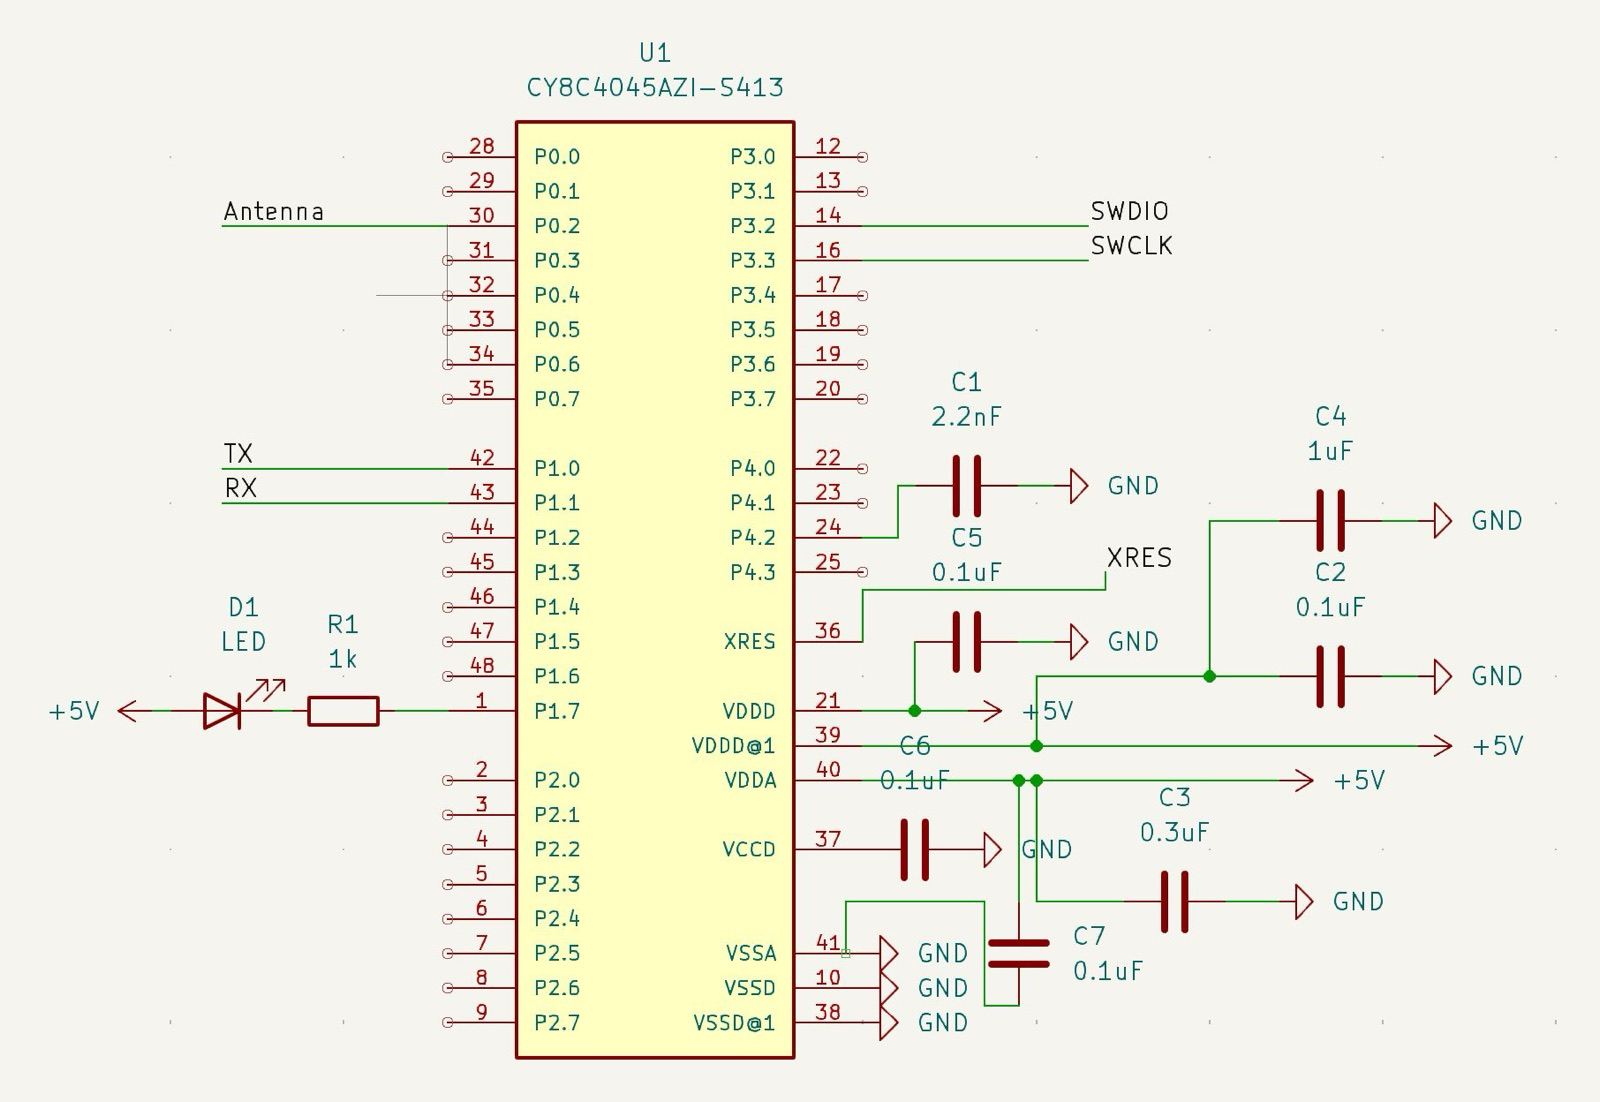
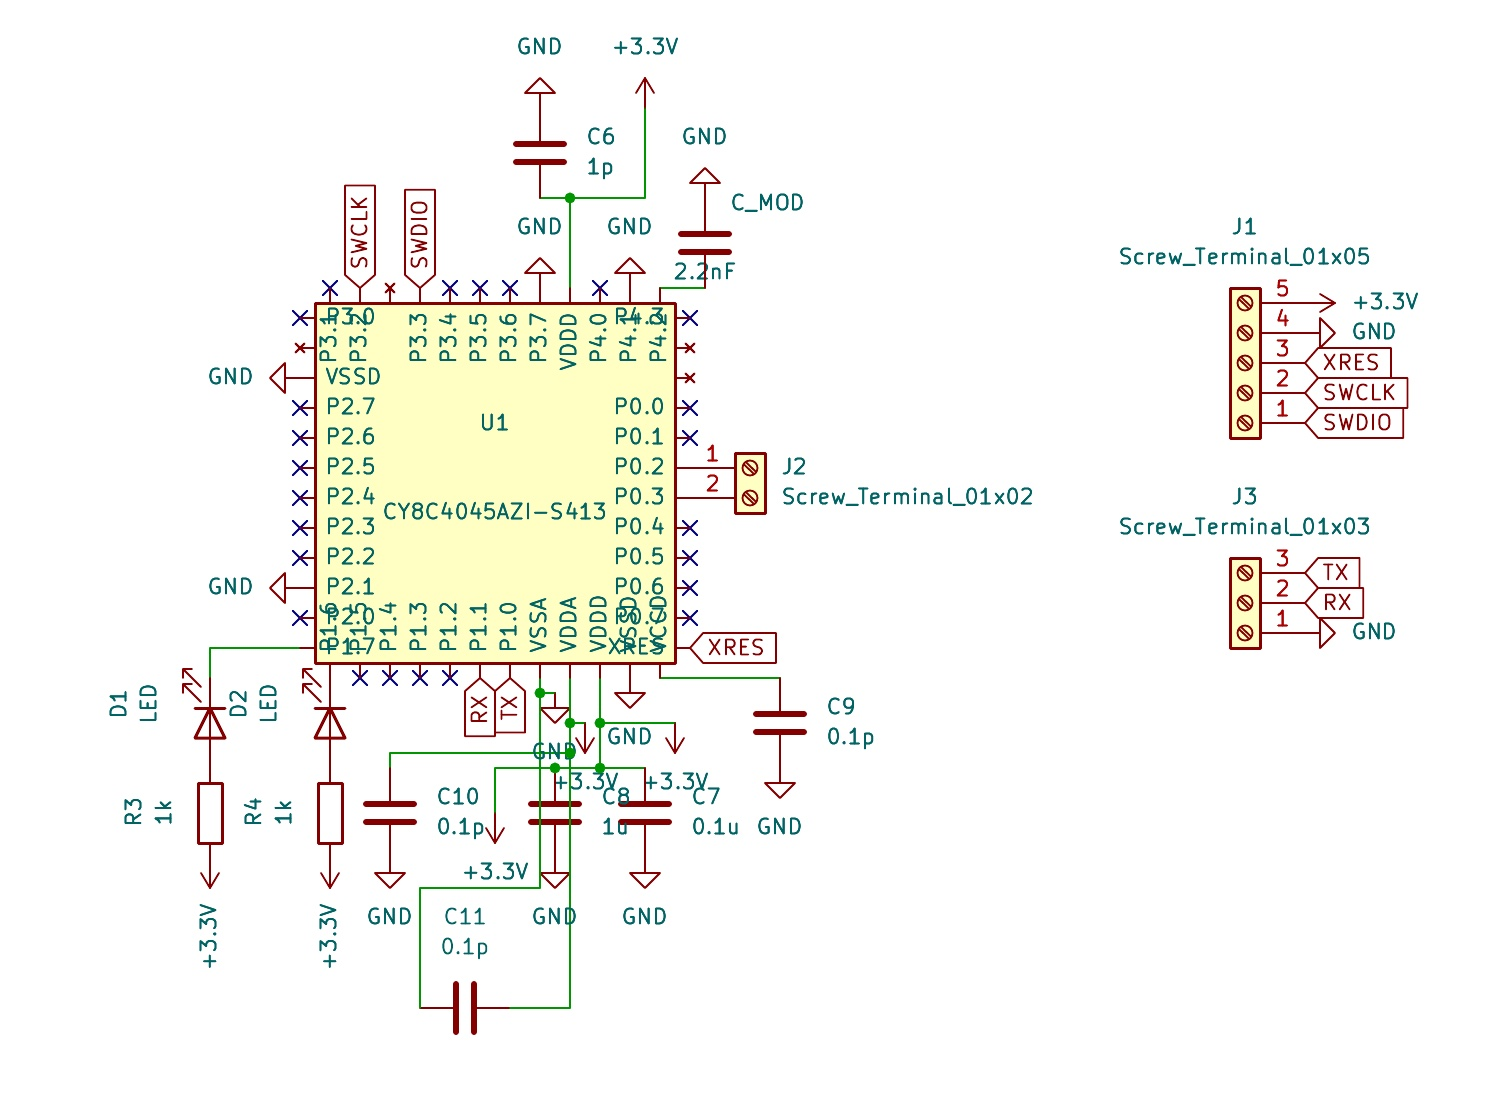
Swap gripper schematic slide for fresh KiCad exports
- Regenerate the schematic slide from the current CLUE-Prox-Sensor
  KiCad project (kicad-cli sch export)
- Add a 3D top render of the assembled 2-layer sensor board as its
  own carousel slide (5 slides total now)

Changed region(s): [[0.0309, 0.0309, 0.9583, 0.9873], [0.1237, 0.8022, 0.1546, 0.8639]]

diff --git a/projects/capacitive-gripper.html b/projects/capacitive-gripper.html
@@ -64,7 +64,10 @@
 								<img src="../img/gripper-scan.jpeg" alt="UART session log: raw vs baseline, the RawDiff proximity signal, and the detection state as a hand approaches" width="1600" height="939">
 							</figure>
 							<figure class="carousel-slide">
-								<img src="../img/gripper-schematic.jpeg" alt="KiCad schematic of the PSoC sensor board with the antenna input and Cmod / decoupling network" width="1600" height="1102">
+								<img src="../img/gripper-schematic.jpeg" alt="KiCad schematic of the PSoC sensor board: the CY8C4045 QFN, the 2.2 nF Cmod cap, decoupling network, LED drivers, and the SWD / UART / antenna screw terminals" width="1488" height="1116">
+							</figure>
+							<figure class="carousel-slide">
+								<img src="../img/gripper-pcb.jpeg" alt="3D render of the finished 2-layer PSoC sensor board with the QFN footprint, indicator LEDs, current-limit resistors, and three screw terminals" width="1400" height="1400">
 							</figure>
 						</div>
 					</div>
